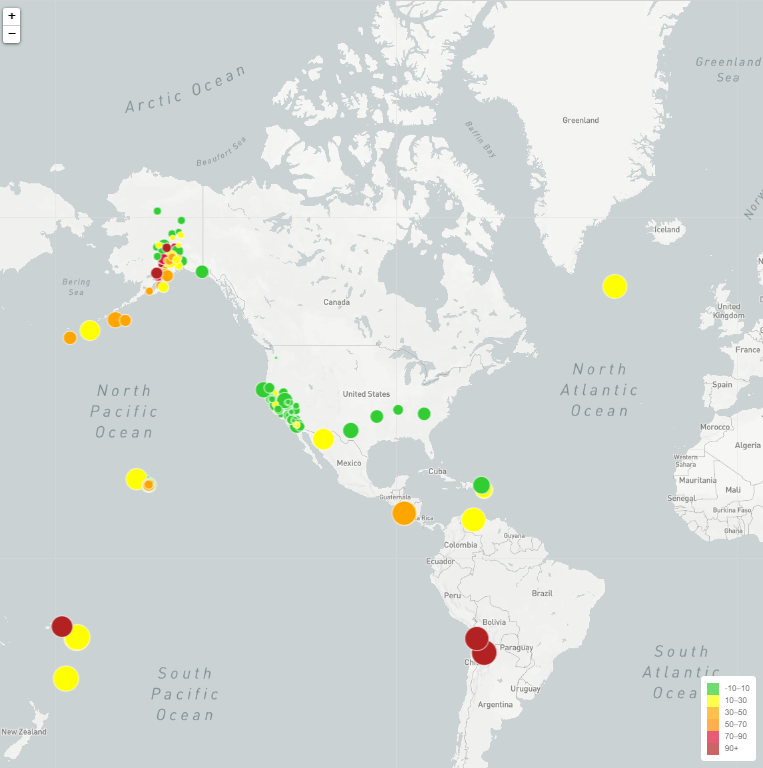
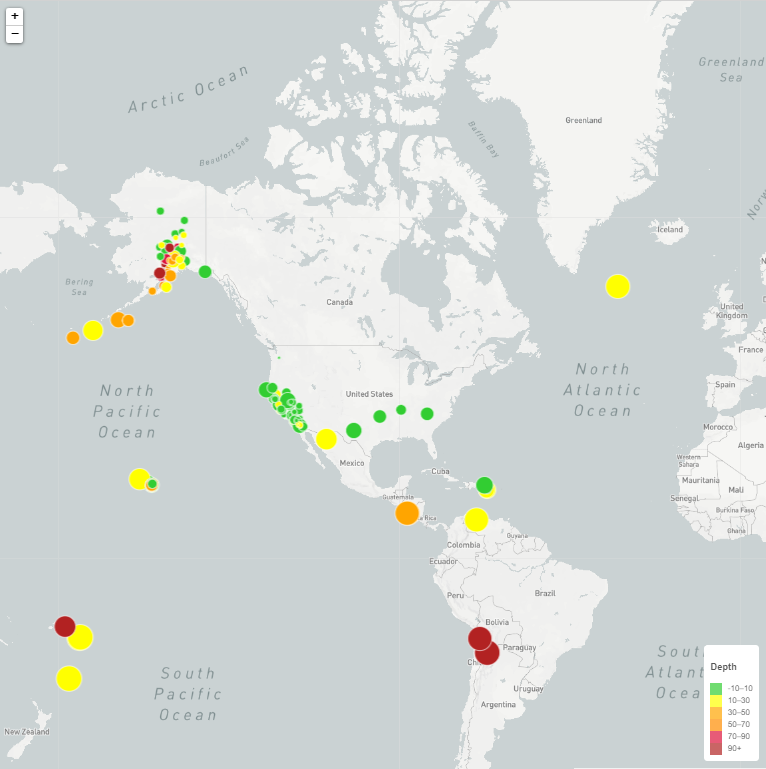
include the changes

diff --git a/Leaflet-Step-1/logic.js b/Leaflet-Step-1/logic.js
@@ -83,15 +83,16 @@ d3.json(link).then(function(data) {
 legend.onAdd = function (map) {
 
     var div = L.DomUtil.create('div', 'info legend'),
-        grades = [-10, 10, 30, 50, 70, 90],
-        labels = [];
+            grades = [-10, 10, 30, 50, 70, 90],
+            legendInfo = "<h3>Depth</h3>";
+            legend = []
+            div.innerHTML = legendInfo;
 
-    // loop through the depth intervals and generate a label with a colored square for each interval
-    for (var i = 0; i < grades.length; i++) {
-        div.innerHTML +=
-            '<i style="background:' + getColor(grades[i] + 1) + '"></i> ' +
-            grades[i] + (grades[i + 1] ? '&ndash;' + grades[i + 1] + '<br>' : '+');
-    }
+        // loop through the depth intervals and color the legend
+        for (var i = 0; i < grades.length; i++) {
+            div.innerHTML += '<i style="background:' + getColor(grades[i] + 1) + '"></i> ' +
+                grades[i] + (grades[i + 1] ? '&ndash;' + grades[i + 1] + '<br>' : '+');
+        }
 
     return div;
 };
